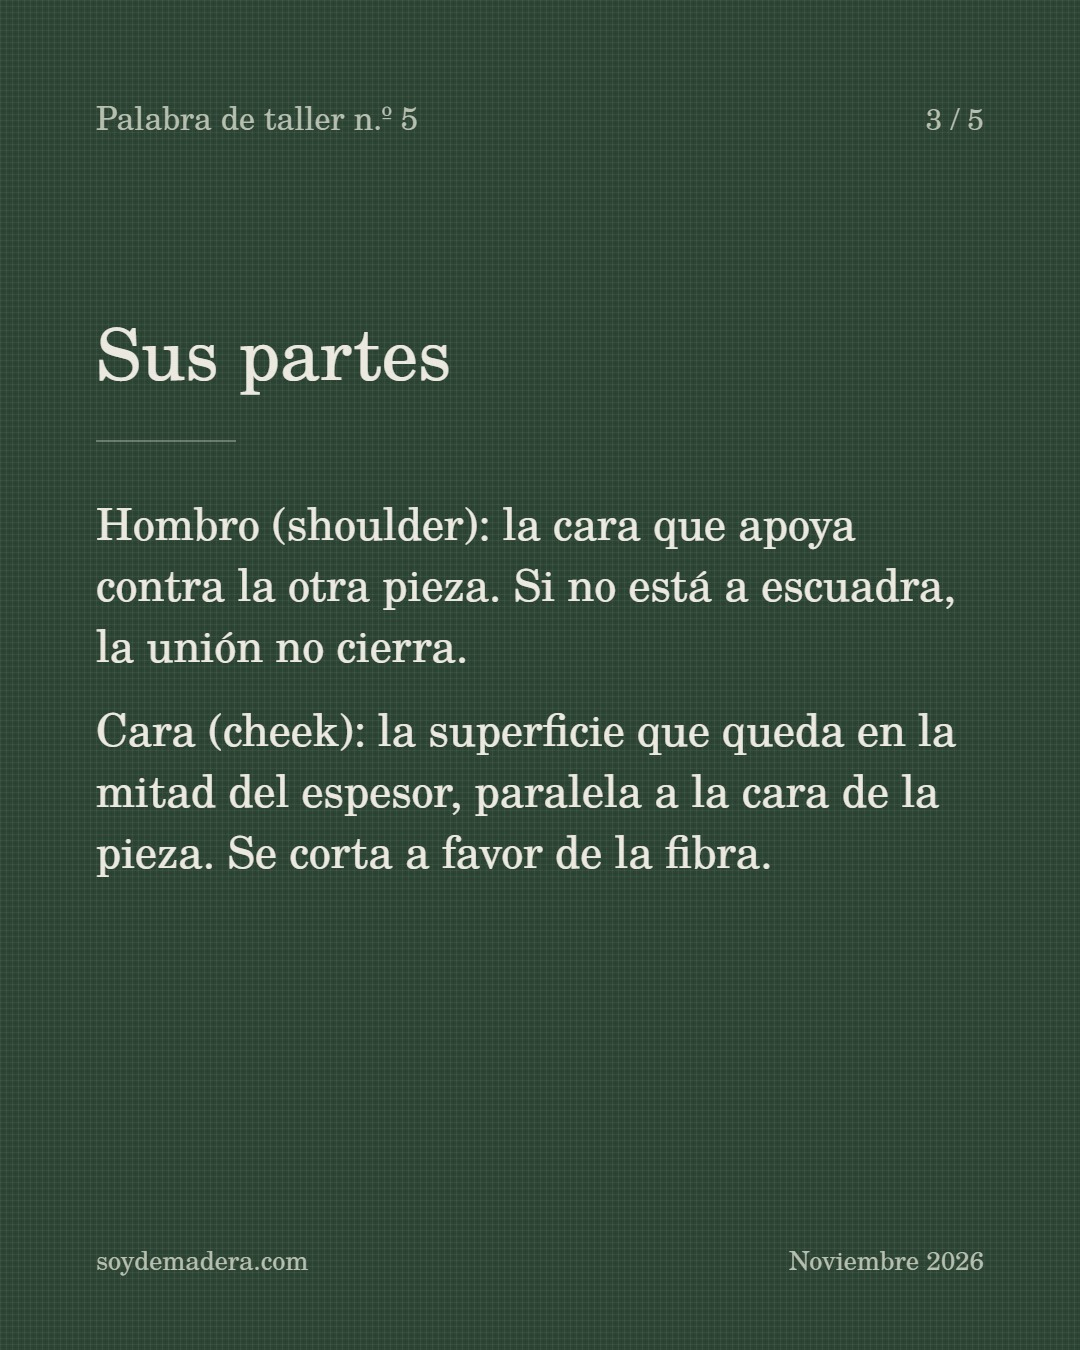
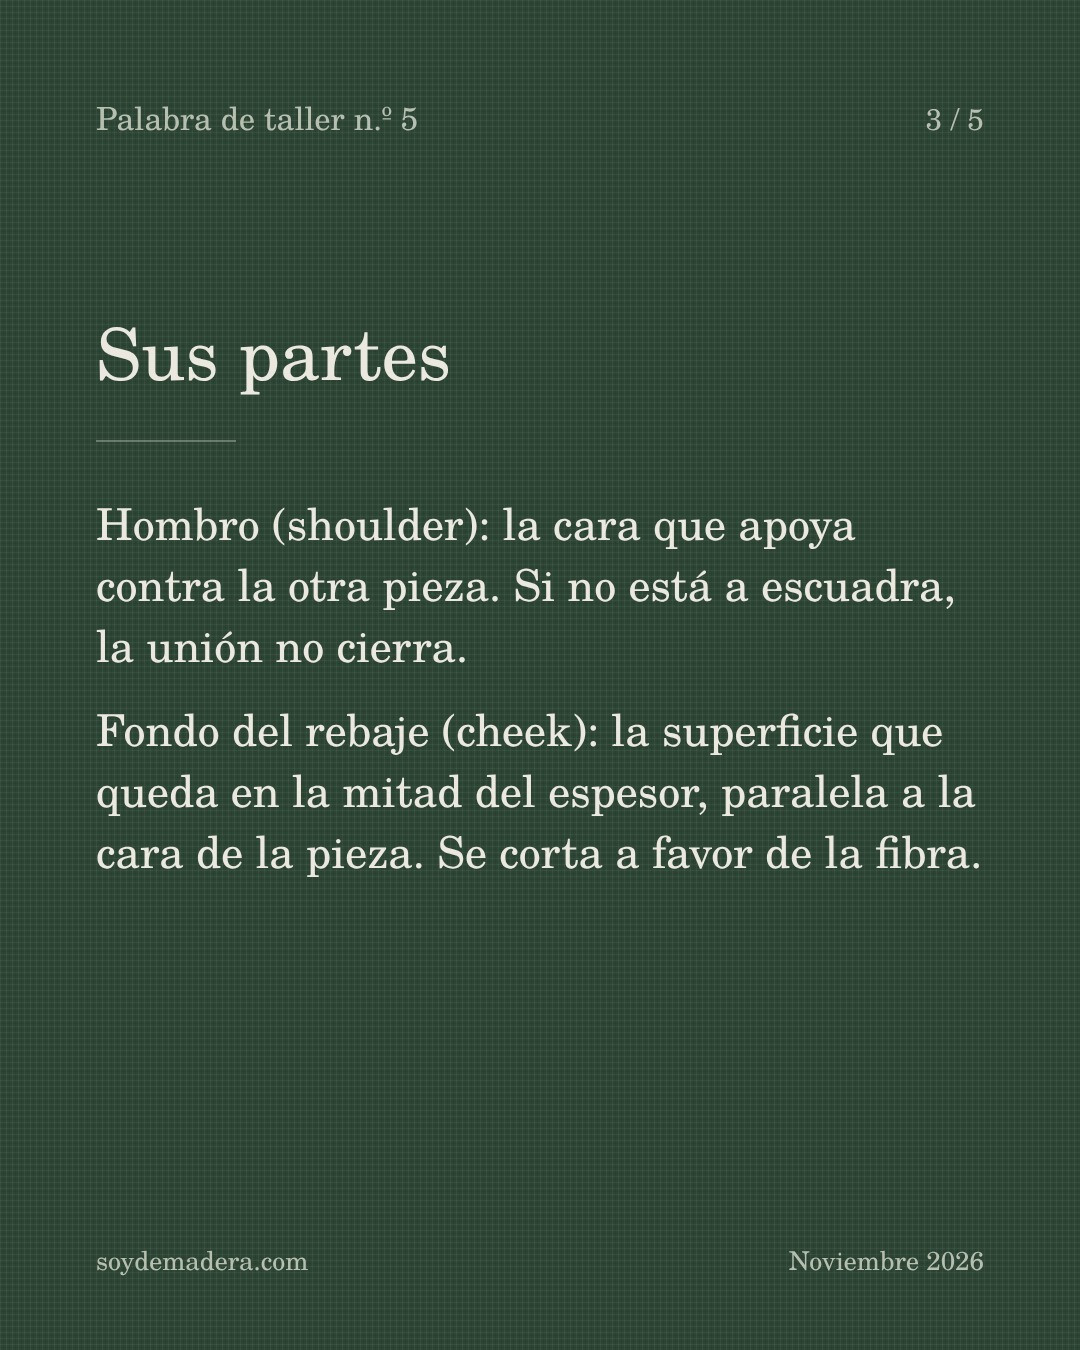
Palabra de taller n.º 5: lámina 3 con «Fondo del rebaje (cheek)» en lugar de «Cara (cheek)»
Claude-Session: https://claude.ai/code/session_012RZ1FSru8rsox7YyeamAp7

diff --git a/carrusel-lucas/palabra5.html b/carrusel-lucas/palabra5.html
@@ -59,7 +59,7 @@ async function generar() {
       ['Se usa en marcos, bastidores y cruces en T o en X.', 36, SUAVE, ''] ]),
     c => bloque(c, 3, 'Sus partes', [
       ['Hombro (shoulder): la cara que apoya contra la otra pieza. Si no está a escuadra, la unión no cierra.', 44, HUESO, ''],
-      ['Cara (cheek): la superficie que queda en la mitad del espesor, paralela a la cara de la pieza. Se corta a favor de la fibra.', 44, HUESO, ''] ]),
+      ['Fondo del rebaje (cheek): la superficie que queda en la mitad del espesor, paralela a la cara de la pieza. Se corta a favor de la fibra.', 44, HUESO, ''] ]),
     c => bloque(c, 4, 'Cómo se marca', [
       ['Con el gramil, siempre desde la misma cara de referencia en las dos piezas. Así las caras quedan al ras aunque el espesor no sea exacto.', 44, HUESO, ''],
       ['Se sierra del lado del sobrante, dejando la línea, y se repasa con formón hasta ella.', 36, SUAVE, ''] ]),
